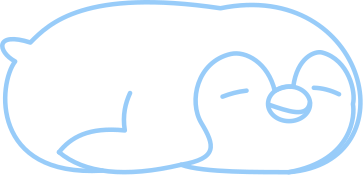
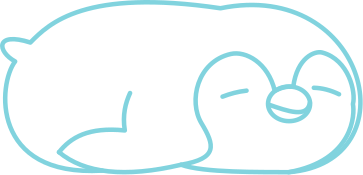
sidebar and stuff

diff --git a/quickshell/Sidebar.qml b/quickshell/Sidebar.qml
@@ -26,6 +26,7 @@ Singleton {
     function close() {
         pinned = false;
         closeTimer.stop();
+        openTimer.stop();
         open = false;
     }
 
@@ -33,8 +34,13 @@ Singleton {
     onWantedChanged: {
         if (wanted) {
             closeTimer.stop();
-            open = true;
+            // Touching the screen edge only counts after a short dwell, so brushing past it doesn't pop the drawer.
+            if (open || pinned || panelHovered)
+                open = true;
+            else
+                openTimer.restart();
         } else {
+            openTimer.stop();
             closeTimer.restart();
         }
     }
@@ -42,6 +48,13 @@ Singleton {
     // Once the pointer is on a pinned drawer, hovering takes over: leaving closes it.
     onPanelHoveredChanged: if (panelHovered)
         pinned = false
+
+    Timer {
+        id: openTimer
+        interval: 600
+        onTriggered: if (root.wanted)
+            root.open = true
+    }
 
     Timer {
         id: closeTimer
